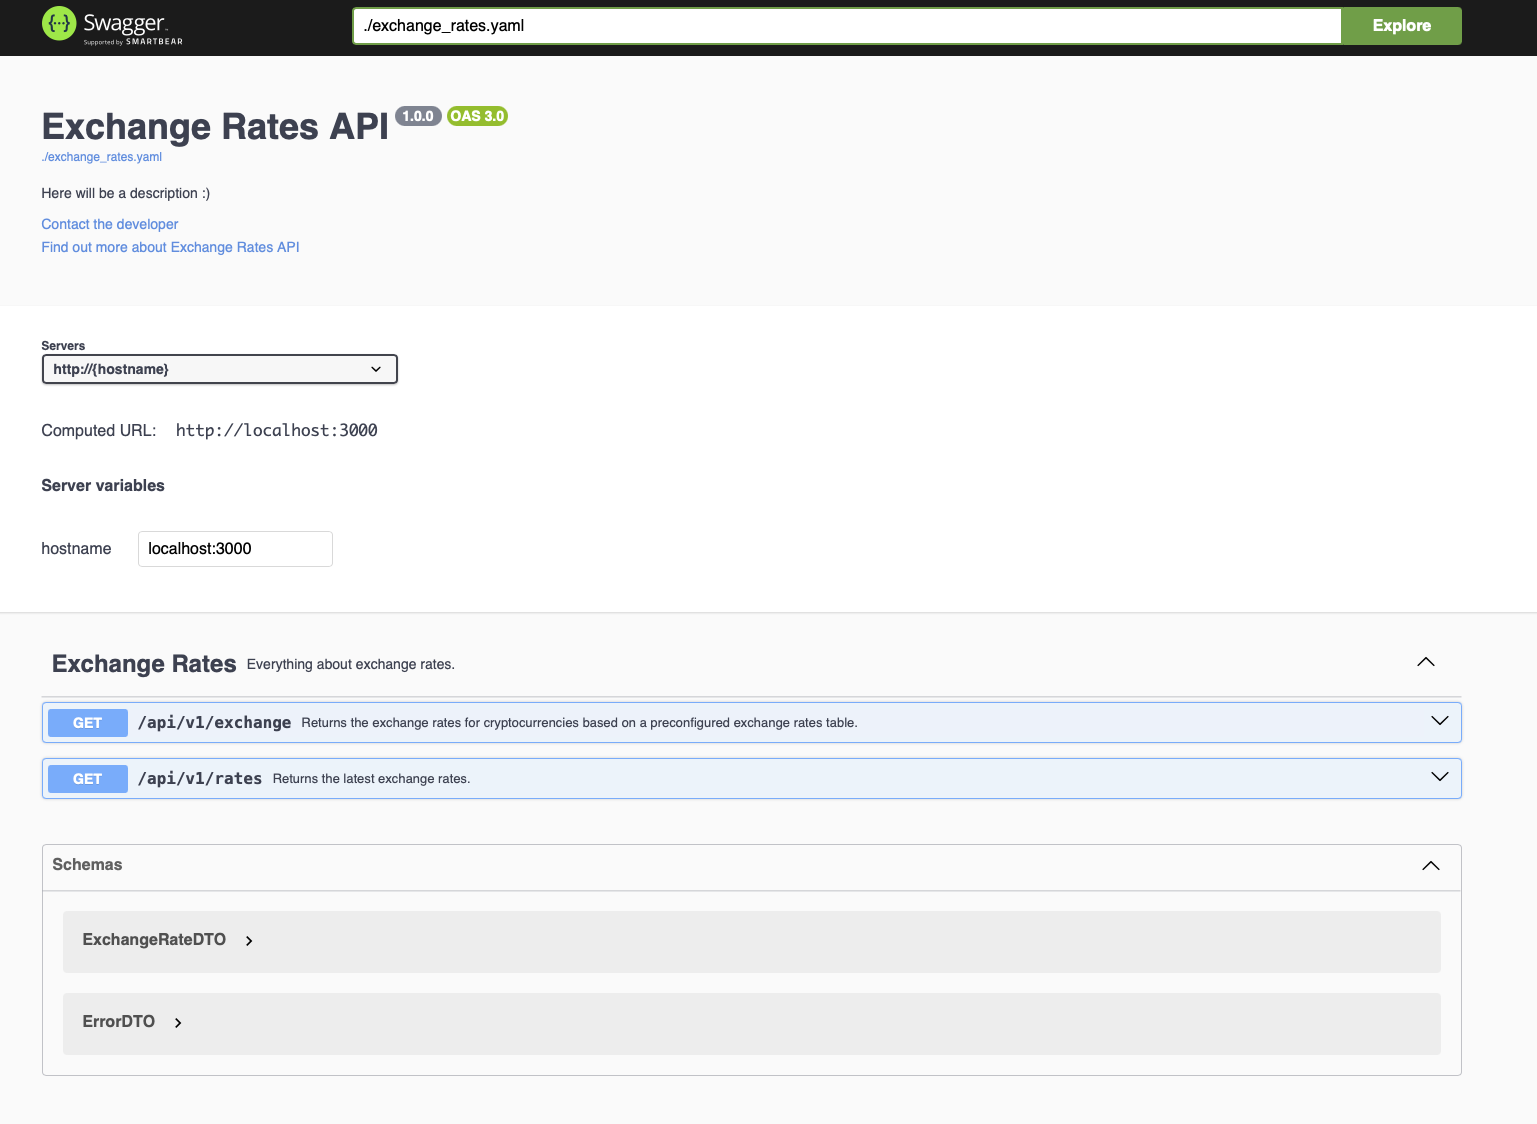
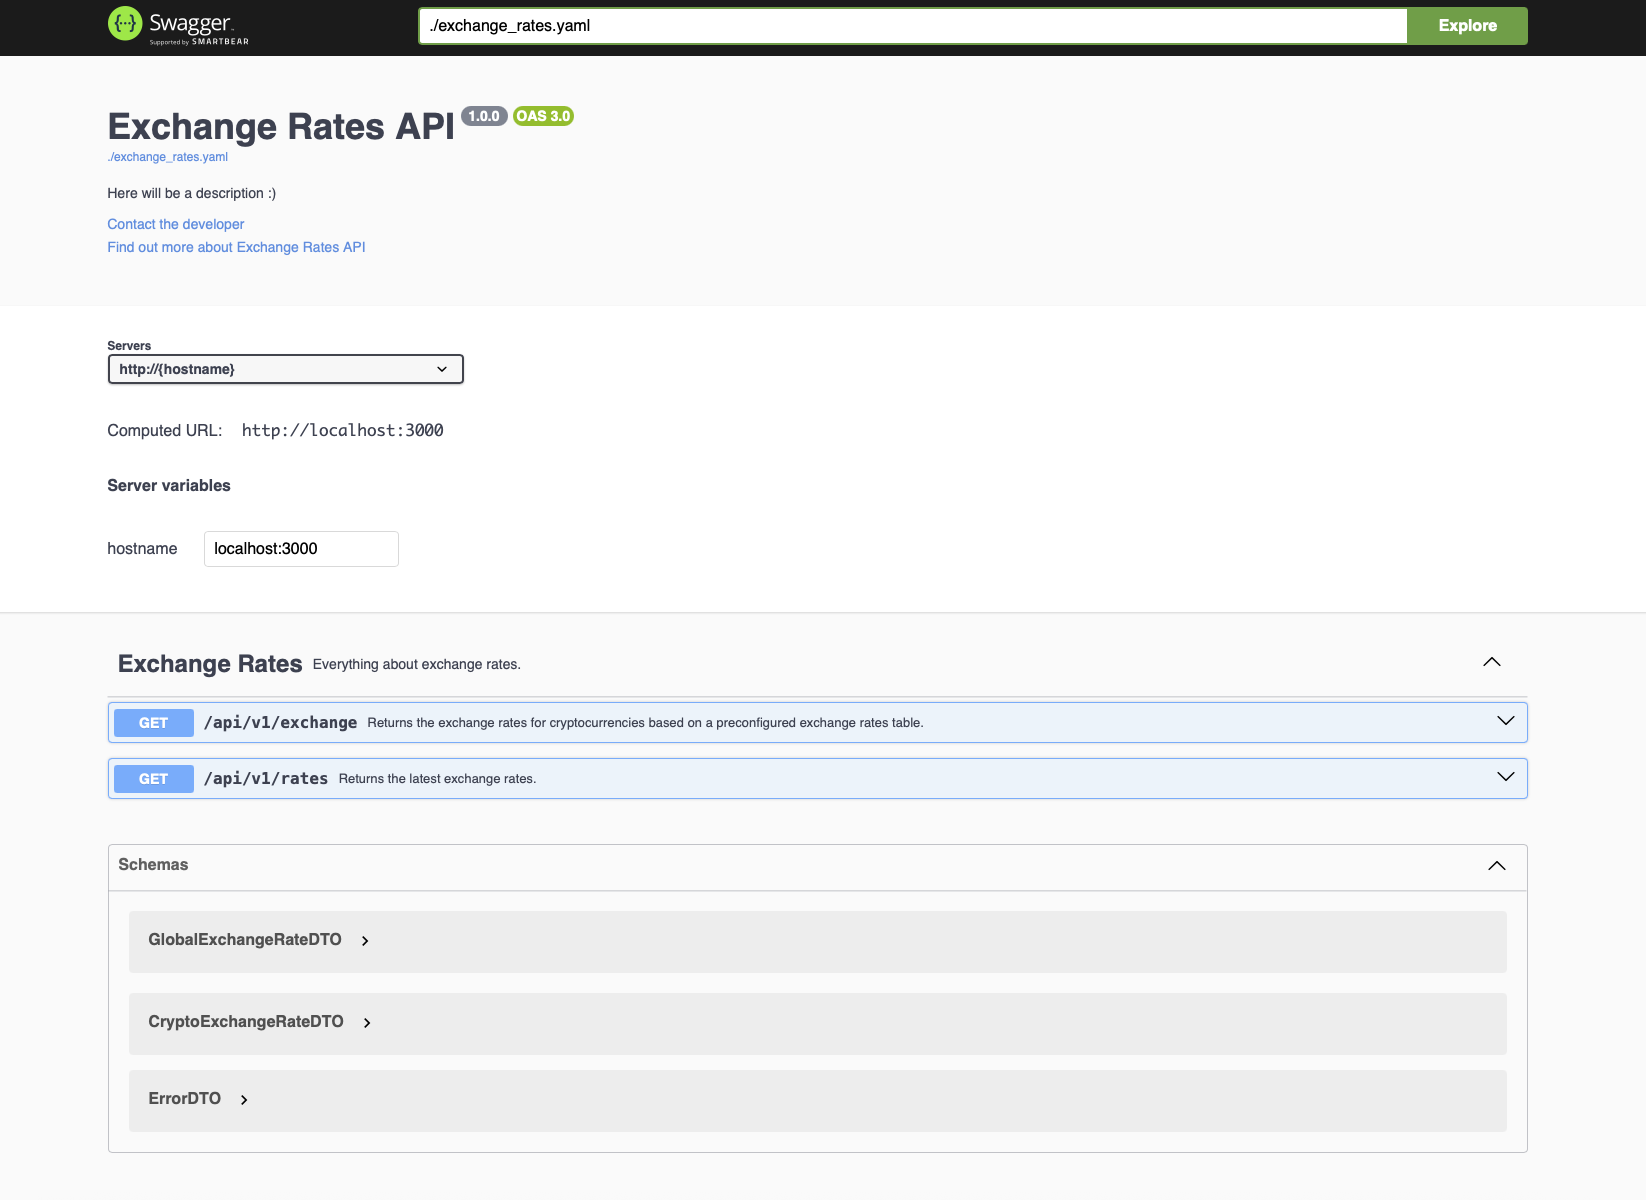
add seperate response model for /api/v1/exchange, update documentation files.

diff --git a/internal/ports/http.go b/internal/ports/http.go
@@ -32,7 +32,7 @@ func (h *HTTP) GetCryptoExchangeRate(c *gin.Context, params GetCryptoExchangeRat
 		return
 	}
 
-	c.JSON(http.StatusOK, ConvertToExchangeRateDTO(exchange))
+	c.JSON(http.StatusOK, ConvertToCryptoExchangeRateDTO(exchange))
 }
 
 func (h *HTTP) GetGlobalExchangeRates(c *gin.Context, params GetGlobalExchangeRatesParams) {
@@ -48,7 +48,7 @@ func (h *HTTP) GetGlobalExchangeRates(c *gin.Context, params GetGlobalExchangeRa
 		return
 	}
 
-	c.JSON(http.StatusOK, ConvertToExchangeRateDTOs(exchanges...))
+	c.JSON(http.StatusOK, ConvertToGlobalExchangeRateDTOs(exchanges...))
 }
 
 func NewHTTP(app *app.Application) *HTTP {
@@ -67,18 +67,18 @@ func NewHTTP(app *app.Application) *HTTP {
 	return &http
 }
 
-func ConvertToExchangeRateDTO(rate core.CalculatedExchangeRate) *ExchangeRateDTO {
-	return &ExchangeRateDTO{
-		From: rate.From(),
-		Rate: rate.ExchangeRate().String(),
-		To:   rate.To(),
+func ConvertToCryptoExchangeRateDTO(rate core.CalculatedExchangeRate) *CryptoExchangeRateDTO {
+	return &CryptoExchangeRateDTO{
+		From:   rate.From(),
+		Amount: rate.ExchangeRate().String(),
+		To:     rate.To(),
 	}
 }
 
-func ConvertToExchangeRateDTOs(rates ...core.CalculatedExchangeRate) []ExchangeRateDTO {
-	var dtos []ExchangeRateDTO
+func ConvertToGlobalExchangeRateDTOs(rates ...core.CalculatedExchangeRate) []GlobalExchangeRateDTO {
+	var dtos []GlobalExchangeRateDTO
 	for _, r := range rates {
-		dtos = append(dtos, ExchangeRateDTO{
+		dtos = append(dtos, GlobalExchangeRateDTO{
 			From: r.From(),
 			To:   r.To(),
 			Rate: r.ExchangeRate().String(),

diff --git a/internal/ports/http_test.go b/internal/ports/http_test.go
@@ -83,7 +83,7 @@ func TestHTTPServer_GetGlobalExchangeRates_PostivieTestCase(t *testing.T) {
 		params.Add("base", "USD")
 
 		expectedStatusCode := http.StatusOK
-		expectedDTOs := []ports.ExchangeRateDTO{
+		expectedDTOs := []ports.GlobalExchangeRateDTO{
 			{
 				From: "EUR",
 				To:   "PLN",
@@ -122,7 +122,7 @@ func TestHTTPServer_GetGlobalExchangeRates_PostivieTestCase(t *testing.T) {
 		fixture.ServeHTTP(req, rec)
 
 		// then:
-		var actualDTOs []ports.ExchangeRateDTO
+		var actualDTOs []ports.GlobalExchangeRateDTO
 
 		resp := rec.Result()
 		fixture.DecodeResponse(resp, &actualDTOs)
@@ -206,17 +206,17 @@ func TestHTTPServer_GetCryptoExchangeRate_PositiveTestCase(t *testing.T) {
 		rec := fixture.NewResponseRecorder()
 		req := fixture.NewRequestWithParams(t.Context(), http.MethodGet, "/api/v1/convert", params)
 		expectedStatusCode := http.StatusOK
-		expectedDTO := ports.ExchangeRateDTO{
-			From: "WBTC",
-			Rate: "57613.353535",
-			To:   "USDT",
+		expectedDTO := ports.CryptoExchangeRateDTO{
+			From:   "WBTC",
+			Amount: "57613.353535",
+			To:     "USDT",
 		}
 
 		// when:
 		fixture.ServeHTTP(req, rec)
 
 		// then:
-		var actualDTO ports.ExchangeRateDTO
+		var actualDTO ports.CryptoExchangeRateDTO
 
 		resp := rec.Result()
 		fixture.DecodeResponse(resp, &actualDTO)

diff --git a/internal/ports/openapi_types.go b/internal/ports/openapi_types.go
@@ -3,14 +3,21 @@
 // Code generated by github.com/oapi-codegen/oapi-codegen/v2 version v2.4.1 DO NOT EDIT.
 package ports
 
+// CryptoExchangeRateDTO defines model for CryptoExchangeRateDTO.
+type CryptoExchangeRateDTO struct {
+	Amount string `json:"amount"`
+	From   string `json:"from"`
+	To     string `json:"to"`
+}
+
 // ErrorDTO defines model for ErrorDTO.
 type ErrorDTO struct {
 	Code    string `json:"code"`
 	Message string `json:"message"`
 }
 
-// ExchangeRateDTO defines model for ExchangeRateDTO.
-type ExchangeRateDTO struct {
+// GlobalExchangeRateDTO defines model for GlobalExchangeRateDTO.
+type GlobalExchangeRateDTO struct {
 	From string `json:"from"`
 	Rate string `json:"rate"`
 	To   string `json:"to"`

diff --git a/cmd/main.go b/cmd/main.go
@@ -14,7 +14,6 @@ import (
 
 //go:generate go tool oapi-codegen -generate types -o ../internal/ports/openapi_types.go -package ports ../api/openapi/exchange_rates.yaml
 //go:generate go tool oapi-codegen -generate gin-server -o ../internal/ports/openapi_api.gen.go -package ports ../api/openapi/exchange_rates.yaml
-
 func main() {
 	// Configuration workflow initialization:
 	path := flag.String("config", "../config.yaml", "Path to the HTTP server config file.")

diff --git a/README.md b/README.md
@@ -26,8 +26,8 @@ Returns a JSON of exchange rate.
 
 ```json
 {
+    "amount": "57613.353535",
     "from": "WBTC",
-    "rate": "57613.353535",
     "to": "USDT"
 }
 ```
